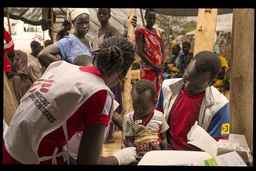
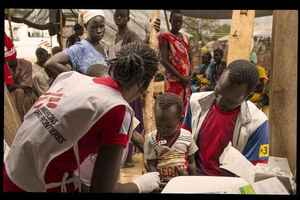
correcting Stray end tag img

diff --git a/p1Portfolio/index.html b/p1Portfolio/index.html
@@ -24,7 +24,7 @@
       </div>
     </div>
     <div class="row mainPicture">
-    <img alt="MSF" src="img/MSB13949-small.jpg">
+    <img alt="MSF" src="img/MSB13949-small.jpg" srcset="img/MSB13949-small.jpg 500w, img/MSB13949-medium.jpg 700w, img/MSB13949-large.jpg 2000w">
     </div>
     <div class="row featuredWorkTitle">
     <h2>What my work is about</h2>
@@ -44,7 +44,17 @@
               <div class="description"><h3>HIS</h3>Setting up Health Information Systems for medical teams to keep track of medical efficiencyS</div>
         </div>
     </div>
+    <div class="row footer">
+    <a href="http://jigsaw.w3.org/css-validator/check/referer">
+    <img style="border:0;width:88px;height:31px"
+        src="http://jigsaw.w3.org/css-validator/images/vcss-blue"
+        alt="Valid CSS!" />
+    </a>
+</p>
+    </div>
   </div>
+  <p>
+
 </body>
 </html>
   

diff --git a/p1Portfolio/Gruntfile.js b/p1Portfolio/Gruntfile.js
@@ -7,10 +7,20 @@ module.exports = function(grunt) {
           engine: 'im',
           sizes: [{
             name: 'small',
-            rename: 'none',
-            width: '50%',
+            width: '300px',
             quality: 40
-          }]
+          },
+          {
+            name: 'medium',
+            width: '500px',
+            quality: 70
+          },
+          {
+            name: 'large',
+            width: '1000px',
+            quality: 80
+          }
+         ]
         },
         files: [{
           expand: true,

diff --git a/p1Portfolio/css/responsive.css b/p1Portfolio/css/responsive.css
@@ -31,7 +31,9 @@
   	display: block;
   }
 
-
+  .mainPicture{
+    height: 50%;
+  }
   .project{
   	display: flex;
   	width:100%;

diff --git a/p1Portfolio/css/main.css b/p1Portfolio/css/main.css
@@ -35,6 +35,10 @@ body{
    padding: 0 20px 0 0; 
  }
 
+ .footer{
+    padding: 50px 0 0 10px;
+ }
+
 /* Grid Layout */
 
 .col-1 {
